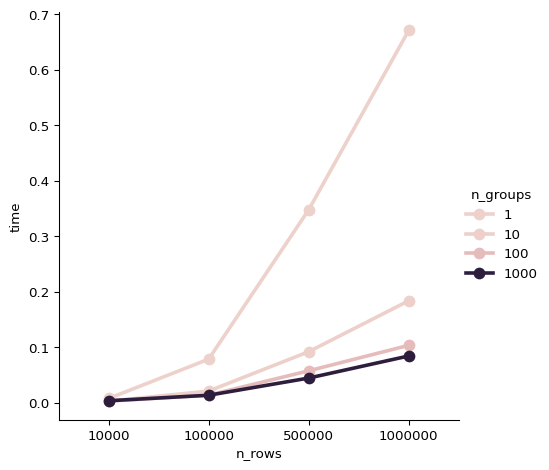
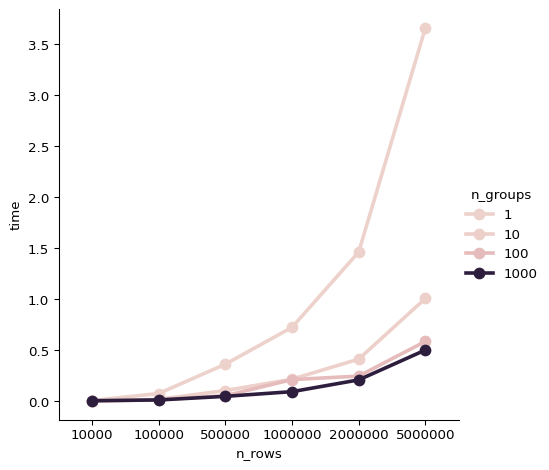
Added interactive marimo notebook and jupyter cache.

diff --git a/content/posts/polars-kde/index.md b/content/posts/polars-kde/index.md
@@ -12,12 +12,15 @@ tags:
   - optimization
   - eda
 draft: false
+featuredImage: featured.png
+execute:
+  cache: true
 ---
 
 
 {{< admonition abstract >}}
 
-We see how to use [polars](https://pola.rs/)' out of the box optimizations to
+We will see how to use [polars](https://pola.rs/)' out of the box optimizations to
 make parallelized kernel density estimations. To this end, I created the [polars_kde](https://github.com/schemaitat/polars_kde) package, which is a polars plugin backed by some Rust code.
 
 {{< /admonition >}}
@@ -40,8 +43,7 @@ The plugin enables **very** fast approximate joins on string columns (fuzzy matc
 
 ## Introduction
 
-Kernel Density Estimation (KDE) is a non-parametric way to estimate the probability density function of a random variable. I recently created a basic [marimo](https://marimo.app/) notebook on how to visualize feature distributions
-and drift over time, possibly grouped by another categorical variable, e.g. the target of a classifier. See my repository [marimo_notebooks](https://github.com/schemaitat/marimo_notebooks) for more details or check out the interactive notebook [here](https://marimo.app/gh/schemaitat/marimo_notebooks/main?entrypoint=notebook%2Ffeature_drift.py).
+Kernel Density Estimation (KDE) is a non-parametric way to estimate the probability density function of a random variable. I recently created a basic [marimo](https://marimo.app/) notebook on how to visualize feature distributions and drift over time, possibly grouped by another categorical variable, e.g. the target of a classifier. See my repository [marimo_notebooks](https://github.com/schemaitat/marimo_notebooks) for more details or check out the interactive notebook [here](https://marimo.app/gh/schemaitat/marimo_notebooks/main?entrypoint=notebook%2Ffeature_drift.py).
 
 While working on this notebook, I realized that the computations usually involve multiple kde's for different slices of the data. In order to have a polars built-in method to compute kde's, I created the `polars_kde` package. This enables optimized comutations and polars-native code (as opposed to for example using `scipy`).
 
@@ -53,24 +55,67 @@ If you (trust me) and want to run the notebook in your local environment, simpli
 uv tool run marimo edit https://github.com/schemaitat/marimo_notebooks/blob/main/notebook/feature_drift_fast.py
 ```
 
-The final notebook looks like this:
+{{< typeit >}}
 
-<figure>
-<img src="marimo_notebook_screenshot.png" alt="Marimo Notebook" />
-<figcaption aria-hidden="true">Marimo Notebook</figcaption>
-</figure>
+Or as an interactive [marimo](https://marimo.io/) notebook (loading the packages can take a few seconds):
 
-Or as an interactive marimo notebook (loading the packages can take a few second):
+{{< /typeit >}}
+{{< admonition  note >}}
 
+The interactive marimo notebook uses the `scipy` implementation. The `polars_kde` package is not yet available as wasm build.
+
+{{< /admonition >}}
 {{< admonition type="example" title="Interactive Marimo Notebook" >}}
 <iframe src="/marimo/feature_drift/index.html" width="100%" height="700" frameborder="0">
 </iframe>
 {{< /admonition >}}
+{{< admonition type="tip" title="Adding interactive marimo notebooks to a static blog." open=false >}}
+
+Adding interactive marimo notebooks to a static blog is as easy as adding an iframe for wasm html files. See the [docs](https://docs.marimo.io/guides/exporting/#export-to-wasm-powered-html). The marimo notebooks are self-contained and can be hosted on any static file server.
+
+I integrated this into my workflow by adding a `marimo` folder containing all the notebooks. Then, each notebook is exported to a same named folder in the `public` folder (where the rendered blog html lives).
+
+In my Jenkins pipline, I *install* the notebooks as follows:
+
+``` bash
+#!/bin/bash
+
+if [ -z "$1" ]; then
+    echo "Usage: $0 <output_dir>"
+    echo "  output_dir: directory to store the rendered notebooks"
+    exit 1
+fi
+
+output_dir=${1:-public}/marimo
+
+# create a temp directory to store the rendered notebooks
+mytmpdir=$(mktemp -d 2>/dev/null || mktemp -d -t 'mytmpdir')
+
+
+if [ -d $output_dir ]; then
+    echo "Output directory already exists. Clearing it."
+    rm -rf $output_dir
+else
+    mkdir -p $output_dir
+fi
+
+for notebook in "marimo/*.py"; do
+    # remove .py ending
+    dir_name=$(basename $notebook)
+    dir_name="${dir_name%.*}"
+    echo -ne 'Y' | uv run marimo export html-wasm --sandbox --mode run $notebook -o $mytmpdir/$dir_name
+    mv $mytmpdir/$dir_name ${output_dir}/$dir_name
+done
+
+
+trap "rm -rf $mytmpdir" EXIT SIGINT SIGTERM SIGQUIT SIGKILL
+```
+
+{{< /admonition >}}
 
 ## Rust side
 
-On the rust side of things, all we need to to is wrapping an already existing functionality into a polars expression.
-Often, this is the standard approach on how to create polars plugins. Onother example is for example the [polars-reverse-geocode](https://github.com/MarcoGorelli/polars-reverse-geocode) plugin.
+On the rust side of things, all we need to do is wrapping an already existing functionality into a polars expression. Often, this is the standard approach on how to create polars plugins. Onother example is for example the [polars-reverse-geocode](https://github.com/MarcoGorelli/polars-reverse-geocode) plugin.
 
 ``` rust
 use kernel_density_estimation::prelude::*;
@@ -105,14 +150,13 @@ fn kde_agg(inputs: &[Series], kwargs: KdeKwargs) -> PolarsResult<Series> {
 
 {{< admonition note >}}
 
-You see that I use `Normal` as Kernel and `Silverman` as bandwidth estimator. This is a common default choice, but a future improvement would be to make these parameters configurable.
+You see that I use `Normal` as kernel and `Silverman` as bandwidth estimator. This is a common default choice, but a future improvement would be to make these parameters configurable.
 
 {{< /admonition >}}
 
 ## Examples
 
-To get the basic idea, we start with a simple example. We have a dataframe with two columns, `id` and `values`. We group by `id` and compute the kde for the `values` column.
-We work with a fixed set of evaluation points, which are the points at which the kde is evaluated.
+To get the basic idea, we start with a simple example. We have a dataframe with two columns, `id` and `values`. We group by `id` and compute the kde for the `values` column. We work with a fixed set of evaluation points, which are the points at which the kde is evaluated.
 
 ``` python
 import polars as pl
@@ -139,8 +183,8 @@ print(df_kde)
     │ --- ┆ ---                             │
     │ u32 ┆ list[f32]                       │
     ╞═════╪═════════════════════════════════╡
-    │ 0   ┆ [1.816287, 2.407217, … 1.1300e… │
     │ 1   ┆ [1.7249e-11, 0.000002, … 0.000… │
+    │ 0   ┆ [1.816287, 2.407217, … 1.1300e… │
     └─────┴─────────────────────────────────┘
 
 Now lets generate some more data and add a visualization:
@@ -197,8 +241,7 @@ aggregations.
 
 ## Speed
 
-Especially, for large dataframes and many groups, the speedup is significant. Compared to the `scipy` implementation, the `polars_kde` is faster even for a single operation faster.
-For illustration, let us look at some boilerplate code that can be used to generate more benchmarks.
+Especially, for large dataframes and many groups, the speedup is significant. Compared to the `scipy` implementation, the `polars_kde` is faster even for a single operation faster. For illustration, let us look at some boilerplate code that can be used to generate more benchmarks.
 
 ``` python
 import numpy as np
@@ -226,19 +269,6 @@ def benchmark(n_groups, n_rows):
       .agg(
         kde = pk.kde("values", eval_points = eval_points),
       )
-      .with_columns(
-          eval_points=pl.lit(eval_points)
-      )
-      .explode("kde", "eval_points")
-    )
-
-    start = time.time()
-    df_kde = (
-       df
-      .group_by("id")
-      .agg(
-        kde = pk.kde("values", eval_points = eval_points),
-      )
     )
     end = time.time()
 
@@ -251,17 +281,19 @@ def benchmark(n_groups, n_rows):
     return df_bench
 
 bench_n_groups = [1, 10, 100, 1000]
-bench_n_rows = [10_000, 100_000, 500_000, 1_000_000]
+bench_n_rows = [10_000, 100_000, 500_000, 1_000_000, 2_000_000, 5_000_000]
 
-df_bench = pl.concat([
-    benchmark(n_groups, n_rows)
-    for n_groups in bench_n_groups
-    for n_rows in bench_n_rows
-])
 # Include this to generate the plot.
 # Here, I added the output on my local machine with 8 cores,
 # since the build agent is single core and we would not see
 # any parallelization.
+
+# df_bench = pl.concat([
+#     benchmark(n_groups, n_rows)
+#     for n_groups in bench_n_groups
+#     for n_rows in bench_n_rows
+# ])
+
 
 # sns.catplot(
 #     df_bench,
@@ -272,7 +304,4 @@ df_bench = pl.concat([
 # )
 ```
 
-<figure>
-<img src="catplot.png" alt="Catplot" />
-<figcaption aria-hidden="true">Catplot</figcaption>
-</figure>
+{{< figure src="benchmark.png" title="Benchmark on 8 cores." >}}
